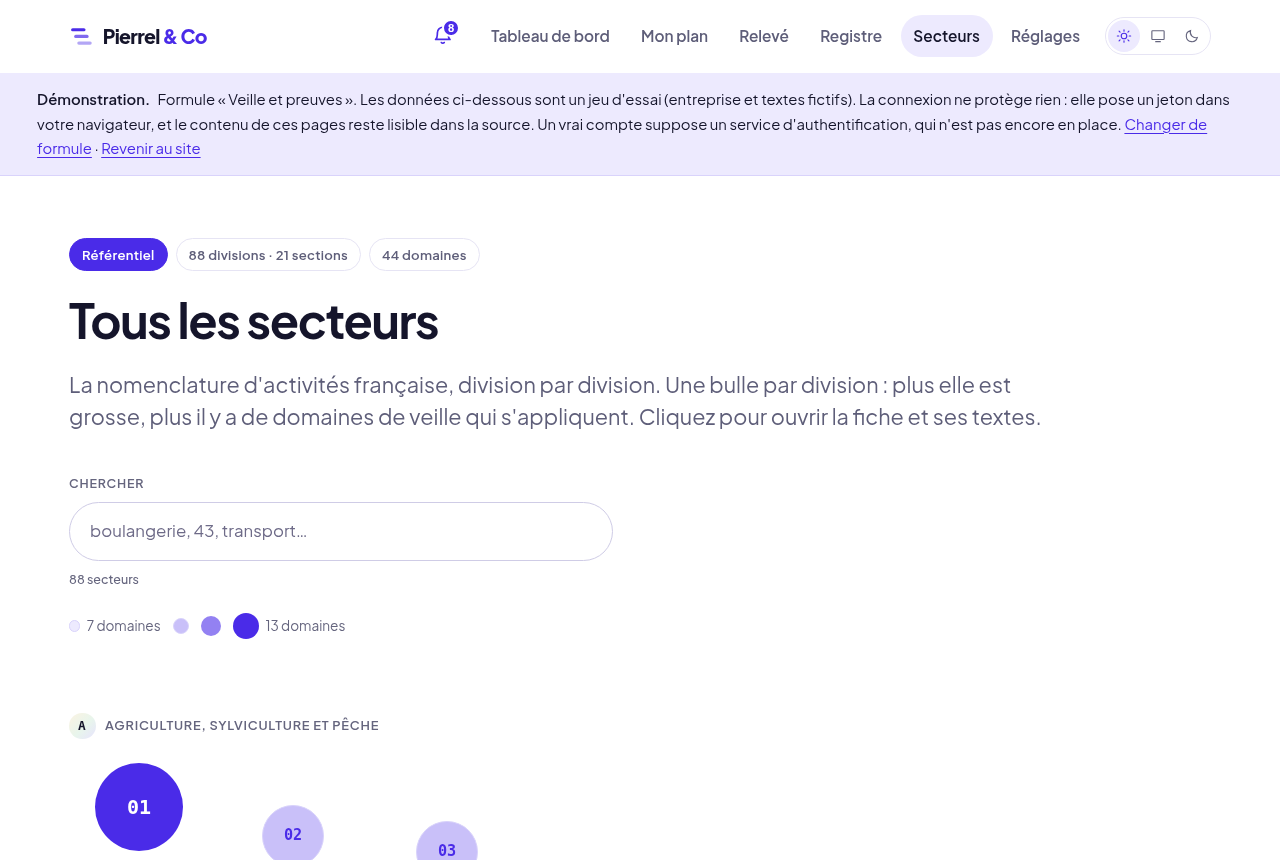
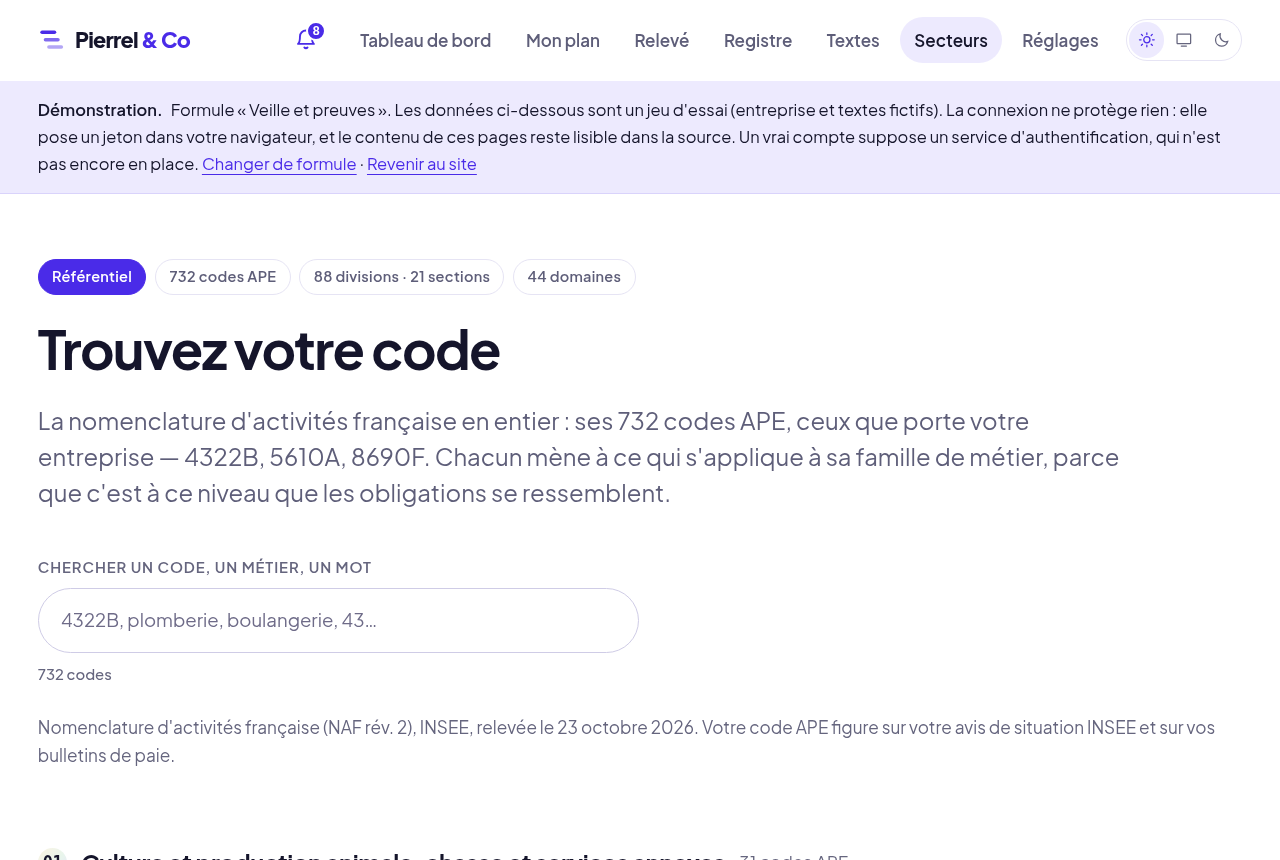
Téléphone contre l'ordinateur, bouton « en savoir plus », écritures agrandies
1. Le téléphone revient contre l'ordinateur. Il se calait sur le bord droit
   du héros ; quand la page s'est élargie à tout l'écran, il était parti à
   194 px de l'ordinateur sur un écran de 1920. Le cadre du héros a maintenant
   la largeur de la composition, pas celle de la page, et l'ensemble est un
   sixième plus grand : l'ordinateur passe de 56 à 66 rem.

2. Les deux captures retrouvent leur texte d'origine — « Ce qui vous concerne,
   et rien d'autre », « Ce qu'un auditeur demande vraiment » — et gagnent un
   bouton : « En savoir plus sur le site », « En savoir plus sur nous ». Il
   déplie quatre encarts, deux et deux : d'où viennent les textes, ce qu'on
   voit pour chacun, ce qui vous concerne, ce que vous gardez ; puis le
   cabinet, l'interlocuteur, ce qu'on fait, les audits préparés. Les chiffres
   sont lus dans les données à la construction (6 sources vérifiées, 3 codes
   et 4 718 articles, 732 codes APE, 44 sujets) ; sur le cabinet, rien que ce
   que le site disait déjà — aucune ancienneté, aucun nombre de clients
   inventé. Aucun lien vers l'application : l'accueil reste fermé.

3. Les écritures grandissent avec l'écran : 16 px sur un téléphone, 18 px à
   partir de 1440. Le texte courant passe de 15-17 px à 17-19 px. Les plus
   petits — étiquettes, codes APE, liens officiels, rattachements — sont
   relevés, et il ne reste plus rien sous 15 px sur aucune page mesurée,
   contre 22 % du texte de l'index des secteurs. Sur cet index, le nom de
[…]

diff --git a/assets/site.css b/assets/site.css
@@ -151,7 +151,13 @@
 /* --- 2. Socle ---------------------------------------------------------- */
 *, *::before, *::after { box-sizing: border-box; }
 
+/* La taille de base grandit avec l'écran : 16 px sur un téléphone, 18 px à
+   partir de 1440. Le site prend maintenant toute la largeur ; garder un texte
+   de téléphone sur un écran de bureau tassait les informations dans des
+   lignes trop fines. Tout est en rem : tout suit. Les paliers des @media,
+   eux, restent calculés sur 16 px — ils ne bougent pas. */
 html {
+  font-size: clamp(100%, 95.4% + .19vw, 112.5%);
   -webkit-text-size-adjust: 100%;
   scroll-behavior: smooth;
   scroll-padding-top: 6rem;
@@ -260,7 +266,7 @@ img { height: auto; display: block; }
 
 .etiq {
   display: block;
-  font-size: .78rem; font-weight: 600;
+  font-size: .84rem; font-weight: 600;
   letter-spacing: .06em; text-transform: uppercase;
   color: var(--encre-tenue);
 }
@@ -479,6 +485,27 @@ img { height: auto; display: block; }
 .theme button:hover { color: var(--encre); }
 .theme button[aria-pressed="true"] { background: var(--accent-clair); color: var(--accent); }
 
+/* Le menu se replie dans son bouton quand il ne tient plus sur une ligne. Le
+   menu public a trois liens et tient jusqu'à 62 rem ; celui de l'application
+   en a sept, et depuis que le texte grandit avec l'écran il passait sur deux
+   ou trois lignes entre 1 000 et 1 200 px. Il se replie donc plus tôt, sous
+   76 rem — mesuré : il tient d'une ligne à partir de 1 200 px. Le même seuil
+   est dans assets/app.js. */
+@media (max-width: 76rem) {
+  .zone-app .menu-bascule { display: inline-flex; }
+  .zone-app .bandeau .menu {
+    position: absolute; left: 0; right: 0; top: 100%;
+    flex-direction: column; align-items: stretch; gap: .2rem;
+    padding: var(--t3) clamp(1rem, .4rem + 2.4vw, 2.5rem) var(--t4);
+    background: var(--papier);
+    border-bottom: 1px solid var(--filet);
+    box-shadow: var(--ombre-1);
+  }
+  .zone-app .bandeau .menu[hidden] { display: none; }
+  .zone-app .bandeau .menu a { padding: .7rem .9rem; font-size: 1.05rem; }
+  .zone-app .menu .bouton { margin: var(--t2) 0 0; }
+  .zone-app .theme { margin: var(--t3) 0 0; align-self: flex-start; }
+}
 @media (max-width: 62rem) {
   .menu-bascule { display: inline-flex; }
   .bandeau .menu {
@@ -534,17 +561,23 @@ img { height: auto; display: block; }
 /* Le visuel : deux écrans réels de l'application, pas une illustration.
    L'ordinateur porte le tableau de bord, le téléphone le relevé — c'est le
    même produit vu des deux côtés, pas deux fois la même image. */
+/* Le téléphone se cale sur le bord droit de ce cadre. Le cadre a donc la
+   largeur de la composition — l'ordinateur au centre, le téléphone qui le
+   chevauche — et non celle de la page : quand la page s'est élargie à tout
+   l'écran, le téléphone était parti à 194 px de l'ordinateur. Les
+   proportions sont celles d'origine (56 / 72), agrandies d'un sixième. */
 .heros-visuel {
   position: relative;
+  width: 100%; max-width: 84rem; margin-inline: auto;
   margin-top: clamp(2.5rem, 1rem + 5vw, 4.5rem);
   display: grid;
   grid-template-columns: minmax(0, 1fr);
   justify-items: center;
 }
-.heros-visuel .portable { width: min(100%, 56rem); }
+.heros-visuel .portable { width: min(100%, 66rem); }
 .heros-visuel .mobile {
   position: absolute; right: 0; bottom: 0; z-index: 2;
-  width: min(13rem, 23%);
+  width: min(15.5rem, 23%);
   /* Incliné ici seulement, là où il chevauche le portable : c'est ce
      décalage qui donne la profondeur. Posé seul, droit, il est plus lisible.
      L'origine en bas à droite garde le coin contre le bord, pour que la
@@ -876,6 +909,33 @@ img { height: auto; display: block; }
 .vitrine-texte h2 { font-size: clamp(1.5rem, 1.1rem + 1.6vw, 2.2rem); }
 .vitrine-texte p { margin-top: var(--t4); }
 .vitrine-texte .lien-fleche { margin-top: var(--t4); }
+/* « En savoir plus » : un bouton à côté de la capture, qui déplie quatre
+   encarts sur place — deux et deux, jamais trois et un. */
+.en-savoir-plus { margin-top: var(--t4); }
+.en-savoir-plus > summary { list-style: none; display: inline-flex; cursor: pointer; }
+.en-savoir-plus > summary::-webkit-details-marker { display: none; }
+.en-savoir-plus > summary::after {
+  content: ""; width: .75rem; height: .75rem; margin-left: .6rem;
+  border-right: 2px solid currentColor; border-bottom: 2px solid currentColor;
+  transform: translateY(-.15rem) rotate(45deg);
+  transition: transform .2s ease;
+}
+.en-savoir-plus[open] > summary::after { transform: translateY(.15rem) rotate(-135deg); }
+.infos-encarts {
+  display: grid; gap: var(--t3); margin-top: var(--t4);
+  grid-template-columns: minmax(0, 1fr);
+}
+@media (min-width: 36rem) { .infos-encarts { grid-template-columns: repeat(2, minmax(0, 1fr)); } }
+.info-encart {
+  min-width: 0;
+  padding: var(--t4);
+  border: 1px solid var(--filet); border-radius: var(--r2);
+  background: var(--carte);
+}
+.info-encart h3 { font-size: 1.02rem; margin: 0 0 var(--t2); }
+.info-encart ul { margin: 0; padding-left: 1.1rem; display: grid; gap: .35rem; }
+.info-encart li { color: var(--encre-douce); line-height: 1.5; }
+.info-encart strong { color: var(--encre); }
 /* Les faits à côté d'une capture : trois lignes courtes, chacune avec sa coche,
    à la place du lien qui menait dans l'application. « faits-vitrine » et pas
    « faits » : .faits existe déjà plus bas, pour les chiffres des fiches de
@@ -974,7 +1034,7 @@ img { height: auto; display: block; }
   accent-color: var(--accent); cursor: pointer;
 }
 .case .intitule { display: block; color: var(--encre); font-weight: 600; font-size: .98rem; line-height: 1.4; }
-.case .aide { display: block; font-size: .9rem; color: var(--encre-tenue); }
+.case .aide { display: block; font-size: .95rem; color: var(--encre-tenue); }
 
 .resultat {
   background: var(--carte);
@@ -1040,7 +1100,7 @@ img { height: auto; display: block; }
 }
 .jauge span.pleine { background: var(--accent); }
 
-.note-source { margin-top: var(--t4); font-size: .92rem; color: var(--encre-tenue); }
+.note-source { margin-top: var(--t4); font-size: .97rem; color: var(--encre-tenue); }
 
 /* --- 12 bis. L'aperçu du courriel --------------------------------------- */
 .apercu-courriel {
@@ -1104,7 +1164,7 @@ img { height: auto; display: block; }
    on n'ouvre pas sa fiche — l'application ne s'ouvre que par la connexion.
    Même boîte, sans l'effet de survol qui promettrait un clic. */
 .puces a, .puces .puce-fixe {
-  display: grid; grid-template-columns: 2rem minmax(0, 1fr); gap: .7rem;
+  display: grid; grid-template-columns: 2.3rem minmax(0, 1fr); gap: .7rem;
   align-items: center;
   padding: .8rem 1rem;
   background: var(--carte);
@@ -1120,11 +1180,11 @@ img { height: auto; display: block; }
 }
 .puces .code {
   display: grid; place-items: center;
-  width: 2rem; height: 2rem;
+  width: 2.3rem; height: 2.3rem;
   border-radius: var(--rp);
   background: var(--degrade-puce);
   color: var(--encre);
-  font-family: var(--mono); font-size: .82rem; font-weight: 700;
+  font-family: var(--mono); font-size: .88rem; font-weight: 700;
 }
 .puces .puce-fixe { height: 100%; }
 /* Les libellés NAF vont de deux mots à douze : sans cette coupe, une rangée
@@ -1306,7 +1366,10 @@ body.verrouille main > *:not(#verrou) { display: none; }
   .jalons li > * { display: inline-block; }
 }
 .jalons li { margin: 0; }
-.jalons span, .jalons a {
+/* Seulement l'étiquette elle-même : « .jalons span » habillait aussi les
+   chiffres glissés dedans (NAF 43.99C, 14 salariés) — une bulle dans la
+   bulle. */
+.jalons li > span, .jalons li > a {
   display: inline-block;
   padding: .3rem .75rem;
   border: 1px solid var(--filet);
@@ -1371,7 +1434,7 @@ body.verrouille main > *:not(#verrou) { display: none; }
 }
 .compteurs .alerte { border-color: var(--ambre); background: var(--ambre-fond); }
 .compteurs .alerte .grand { color: var(--ambre); }
-.compteurs .precision { display: block; font-size: .9rem; color: var(--encre-tenue); }
+.compteurs .precision { display: block; font-size: .97rem; color: var(--encre-tenue); }
 
 .liste-echeances, .liste-releve, .liste-registre { list-style: none; padding: 0; margin: 0; display: grid; gap: .5rem; }
 .liste-echeances li, .ligne-releve, .ligne-registre {
@@ -1613,10 +1676,10 @@ details[open] > summary .chevron { transform: rotate(180deg); }
 /* `.ou` était déjà pris par le séparateur de l'écran de connexion — en grille,
    en capitales, avec deux filets en pseudo-éléments. Les lignes de texte en
    héritaient. D'où `.rattache`. */
-.textes .rattache { font-size: .9rem; overflow-wrap: anywhere; }
+.textes .rattache { font-size: .97rem; overflow-wrap: anywhere; }
 .textes .rattache a { color: var(--encre-tenue); text-decoration: none; }
 .textes .rattache a:hover { color: var(--accent); text-decoration: underline; }
-.textes .source { font-size: .88rem; white-space: nowrap; }
+.textes .source { font-size: .95rem; white-space: nowrap; }
 .textes .source svg { width: .75rem; height: .75rem; }
 
 /* Ce qu'un texte exige : la liste qu'on vient lire. */
@@ -1841,14 +1904,14 @@ details[open] > summary .chevron { transform: rotate(180deg); }
    chasse fixe parce que c'est un identifiant, pas un mot. */
 .grappe-naf .puces a,
 .codes-ape li {
-  grid-template-columns: 4.3rem minmax(0, 1fr);
+  grid-template-columns: 4.9rem minmax(0, 1fr);
 }
 .grappe-naf .puces .code,
 .codes-ape .code {
   width: auto; height: auto; min-height: 1.7rem;
   padding: .2rem .35rem;
   border-radius: var(--r1);
-  font-size: .78rem; letter-spacing: -.02em;
+  font-size: .88rem; letter-spacing: -.02em;
 }
 /* Sur la fiche de secteur, les codes ne sont pas des liens : on y est déjà.
    Ils gardent la carte, sans l'effet de survol qui promettrait un clic. */
@@ -1869,10 +1932,19 @@ details[open] > summary .chevron { transform: rotate(180deg); }
 
 /* L'en-tête d'une division dans l'index : la lettre, le nom cliquable, le
    compte. Il reste une étiquette, donc discret. */
+/* Le nom de chaque secteur est un vrai titre, pas une petite étiquette en
+   capitales : c'est lui que le client cherche des yeux en faisant défiler les
+   88 secteurs. La classe « etiq » qu'il porte reste pour le code et le compte,
+   pas pour le nom. */
 .grappe-naf h2 {
-  display: flex; flex-wrap: wrap; align-items: center; gap: .5rem .7rem;
+  display: flex; flex-wrap: wrap; align-items: center; gap: .5rem .8rem;
   margin-bottom: var(--t3);
+  font-size: clamp(1.15rem, 1.05rem + .4vw, 1.4rem);
+  text-transform: none; letter-spacing: -.015em;
+  color: var(--encre); font-weight: 700;
 }
+.grappe-naf h2 .precision { font-size: .95rem; }
+.grappe-naf h2 .lettre { font-size: .95rem; }
 .grappe-naf h2 a { color: var(--encre); text-decoration: none; }
 .grappe-naf h2 a:hover { color: var(--accent); text-decoration: underline; }
 .grappe-naf h2 .precision { color: var(--encre-tenue); font-weight: 400; letter-spacing: .02em; }
@@ -1967,7 +2039,7 @@ details[open] > summary .chevron { transform: rotate(180deg); }
 /* Ce qu'il faut faire : une liste d'actions, pas un paragraphe. */
 .a-faire { margin: .4rem 0 0; padding-left: 1.1rem; }
 .a-faire li { margin-bottom: .3rem; }
-.lien-officiel { font-size: .9rem; }
+.lien-officiel { font-size: .97rem; }
 
 /* --- 18 quinquies. Le code choisi, et le reste replié -------------------- */
 /* Le client arrive avec son code : il le voit en haut, nommé. Les autres

diff --git a/assets/app.js b/assets/app.js
@@ -67,7 +67,7 @@
     window.addEventListener("scroll", pose, { passive: true });
   }
 
-  /* --- Menu repliable sous 62rem -------------------------------------------- */
+  /* --- Menu repliable quand il ne tient plus sur une ligne ------------------ */
   /* Le menu n'est replié que si ce fichier s'exécute : sans lui il reste
      déployé, ce qui est moins joli mais toujours utilisable. */
   function menu() {
@@ -75,7 +75,10 @@
     var nav = $(".bandeau .menu");
     if (!bouton || !nav) return;
 
-    var etroit = window.matchMedia("(max-width: 62rem)");
+    /* Le seuil est celui de la feuille de style : 76 rem dans l'application,
+       dont le menu a sept liens ; 62 rem sur les pages publiques. */
+    var etroit = window.matchMedia(document.body.classList.contains("zone-app")
+      ? "(max-width: 76rem)" : "(max-width: 62rem)");
     var ouvrir = function (v) {
       nav.hidden = !v;
       bouton.setAttribute("aria-expanded", v ? "true" : "false");
